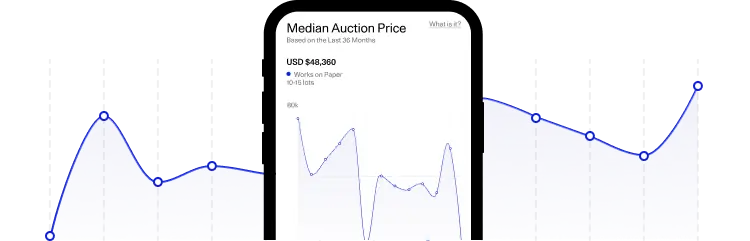
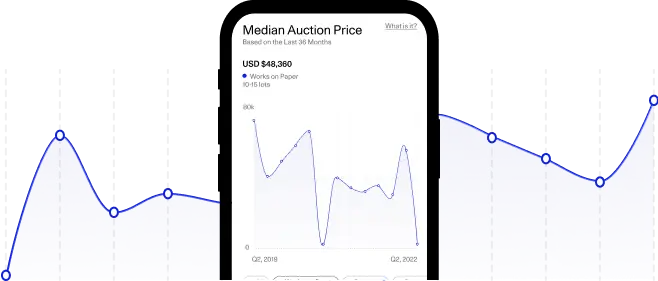
fix(CX-2995): Center MyC empty states (#7464)
* fix: update Insights empty state

# Conflicts:
#	src/app/Scenes/MyCollection/Screens/Insights/MyCollectionInsightsEmptyState.tsx

* fix: centering My Collection empty states 🎉

* fix: remove `minHeight`s from ZeroState

* fix: minor adjustments to empty states to look consistent

* fix: remove extra space

* fix: update tests

diff --git a/src/app/Scenes/MyCollection/Screens/Insights/MyCollectionInsightsEmptyState.tsx b/src/app/Scenes/MyCollection/Screens/Insights/MyCollectionInsightsEmptyState.tsx
@@ -1,7 +1,8 @@
+import { ZeroState } from "app/Components/States/ZeroState"
 import { navigate, popToRoot } from "app/navigation/navigate"
 import { Tab } from "app/Scenes/MyProfile/MyProfileHeaderMyCollectionAndSavedWorks"
 import { useFeatureFlag } from "app/store/GlobalStore"
-import { Button, Flex, Text, useSpace } from "palette"
+import { Button, useSpace } from "palette"
 import { Image } from "react-native"
 
 export const MyCollectionInsightsEmptyState = () => {
@@ -13,37 +14,30 @@ export const MyCollectionInsightsEmptyState = () => {
     : require("images/my-collection-insights-empty-state.webp")
 
   return (
-    <Flex px={2} testID="my-collection-insights-empty-state">
-      <Text variant="md" textAlign="center">
-        Gain deeper knowledge of your collection
-      </Text>
-      <Text variant="xs" color="black60" textAlign="center">
-        Get free market insights about the artists you collect.
-      </Text>
-      <Image
-        source={image}
-        resizeMode="contain"
-        style={{
-          alignSelf: "center",
-          height: 120,
-          width: 327,
-          marginVertical: space(2),
-        }}
-      />
-      <Button
-        block
-        onPress={() =>
-          navigate("my-collection/artworks/new", {
-            passProps: {
-              mode: "add",
-              source: Tab.insights,
-              onSuccess: popToRoot,
-            },
-          })
-        }
-      >
-        Upload Artwork
-      </Button>
-    </Flex>
+    <ZeroState
+      bigTitle="Gain Deeper Knowledge of your Collection"
+      subtitle="Get free market insights about the artists you collect."
+      image={
+        <Image
+          source={image}
+          resizeMode="contain"
+          style={{ alignSelf: "center", marginVertical: space(2) }}
+        />
+      }
+      callToAction={
+        <>
+          <Button
+            block
+            onPress={() => {
+              navigate("my-collection/artworks/new", {
+                passProps: { mode: "add", source: Tab.insights, onSuccess: popToRoot },
+              })
+            }}
+          >
+            Upload Artwork
+          </Button>
+        </>
+      }
+    />
   )
 }

diff --git a/src/app/Components/States/ZeroState.tsx b/src/app/Components/States/ZeroState.tsx
@@ -15,12 +15,13 @@ export const ZeroState = (props: ZeroStateProps) => {
 
   return (
     <Flex px={1} alignItems="center" pt={2}>
-      <Flex minHeight={30}>
+      <Flex>
         {!!title && (
           <Text variant="sm" lineHeight="20" style={{ maxWidth: "80%" }} color={color("black100")}>
             {title}
           </Text>
         )}
+
         {!!bigTitle && (
           <Text variant="md" style={{ textAlign: "center" }} color={color("black100")}>
             {bigTitle}
@@ -28,12 +29,11 @@ export const ZeroState = (props: ZeroStateProps) => {
         )}
       </Flex>
 
-      <Flex minHeight={image ? undefined : 80}>
+      <Flex>
         {!!subtitle && (
           <Text
             variant={bigTitle ? "xs" : "sm"}
             style={{ maxWidth: title || bigTitle ? "100%" : "80%" }}
-            lineHeight="20"
             textAlign="center"
             color={title || bigTitle ? color("black60") : color("black100")}
           >
@@ -44,7 +44,7 @@ export const ZeroState = (props: ZeroStateProps) => {
 
       {!!image && image}
 
-      <Flex minHeight={80}>{!!callToAction && <>{callToAction}</>}</Flex>
+      <Flex minHeight={90}>{!!callToAction && <>{callToAction}</>}</Flex>
     </Flex>
   )
 }

diff --git a/src/app/Scenes/MyCollection/Screens/Insights/MyCollectionInsights.tests.tsx b/src/app/Scenes/MyCollection/Screens/Insights/MyCollectionInsights.tests.tsx
@@ -120,7 +120,7 @@ describe("MyCollectionInsights", () => {
   })
 
   it("shows empty state when the user has no artworks in their collection", async () => {
-    const { getByTestId } = renderWithHookWrappersTL(<TestRenderer />, mockEnvironment)
+    const { getByText } = renderWithHookWrappersTL(<TestRenderer />, mockEnvironment)
     resolveMostRecentRelayOperation(mockEnvironment, {
       Me: () => ({
         myCollectionConnection: { edges: [] },
@@ -131,7 +131,7 @@ describe("MyCollectionInsights", () => {
 
     await flushPromiseQueue()
 
-    expect(getByTestId("my-collection-insights-empty-state")).toBeTruthy()
+    expect(getByText("Gain Deeper Knowledge of your Collection")).toBeTruthy()
   })
 })
 

diff --git a/src/app/Components/StickyTabPage/StickyTabPageFlatList.tsx b/src/app/Components/StickyTabPage/StickyTabPageFlatList.tsx
@@ -130,10 +130,7 @@ export const StickyTabPageFlatList: React.FC<StickyTabFlatListProps> = (props) =
         ListHeaderComponent={
           <Animated.View
             onLayout={() => setHeaderDidMount(true)}
-            style={{
-              flex: 1,
-              height: staticHeaderHeight,
-            }}
+            style={{ marginTop: staticHeaderHeight }}
           />
         }
         // @ts-expect-error

diff --git a/src/app/Scenes/MyCollection/Screens/Insights/MyCollectionInsights.tsx b/src/app/Scenes/MyCollection/Screens/Insights/MyCollectionInsights.tsx
@@ -122,9 +122,6 @@ export const MyCollectionInsights: React.FC<{}> = ({}) => {
 
   return (
     <StickyTabPageScrollView
-      style={{
-        flex: 1,
-      }}
       refreshControl={<StickTabPageRefreshControl onRefresh={refresh} refreshing={isRefreshing} />}
       contentContainerStyle={{
         // Extend the container flex when there are no artworks for accurate vertical centering

diff --git a/src/app/Scenes/MyCollection/MyCollection.tests.tsx b/src/app/Scenes/MyCollection/MyCollection.tests.tsx
@@ -93,7 +93,7 @@ describe("MyCollection", () => {
     it("shows zerostate", () => {
       expect(extractText(tree.root)).toContain("Your Art Collection in Your Pocket")
       expect(extractText(tree.root)).toContain(
-        "Access market insights and manage  your collection online."
+        "Access market insights and manage your collection online."
       )
     })
 

diff --git a/src/app/Scenes/MyCollection/MyCollectionArtworks.tsx b/src/app/Scenes/MyCollection/MyCollectionArtworks.tsx
@@ -203,7 +203,7 @@ const MyCollectionZeroState: React.FC = () => {
   return (
     <ZeroState
       bigTitle="Your Art Collection in Your Pocket"
-      subtitle="Access market insights and manage  your collection online."
+      subtitle="Access market insights and manage your collection online."
       image={
         <Image
           source={image}

diff --git a/src/app/Scenes/Favorites/FavoriteArtworks.tsx b/src/app/Scenes/Favorites/FavoriteArtworks.tsx
@@ -96,7 +96,7 @@ const SavedWorks: React.FC<Props> = ({ me, relay, onDataFetching }) => {
             </>
           }
           callToAction={
-            <Button size="large" onPress={() => navigate("/")} block>
+            <Button block onPress={() => navigate("/")}>
               Browse works
             </Button>
           }
